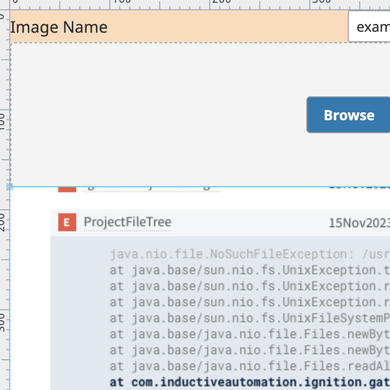
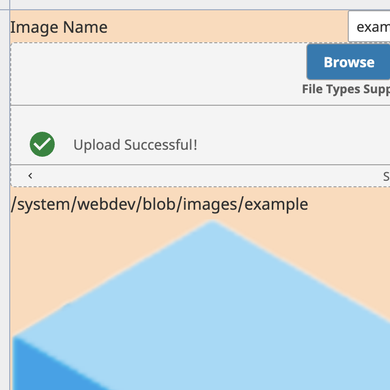
Shit didnt work

diff --git a/ignition-data/projects/blob/com.inductiveautomation.webdev/resources/images/doGet.py b/ignition-data/projects/blob/com.inductiveautomation.webdev/resources/images/doGet.py
@@ -1,5 +1,14 @@
 def doGet(request, session):
 	name = request['remainingPath'][1:]
 	system.util.getLogger("Blob").info("Querying for ... %s" % name)
-	blob_data = system.db.runNamedQuery(system.util.getProjectName(), "GetBlob", {"name": name})
-	return {"bytes": blob_data}
+	ds = system.db.runNamedQuery(system.util.getProjectName(), "GetBlob", {"name": name})
+	
+	if ds.getRowCount() == 0:
+		system.util.getLogger("Blob").info("No rows for: %s" % name)
+		return {"html": ""}
+	
+	blob_data = ds.getValueAt(0, 0)
+	mime_type = ds.getValueAt(0, 1)
+	
+	system.util.getLogger("Blob").info("%s is a: %s" % (name, file_type))
+	return {"bytes": blob_data, "contentType": mime_type}
